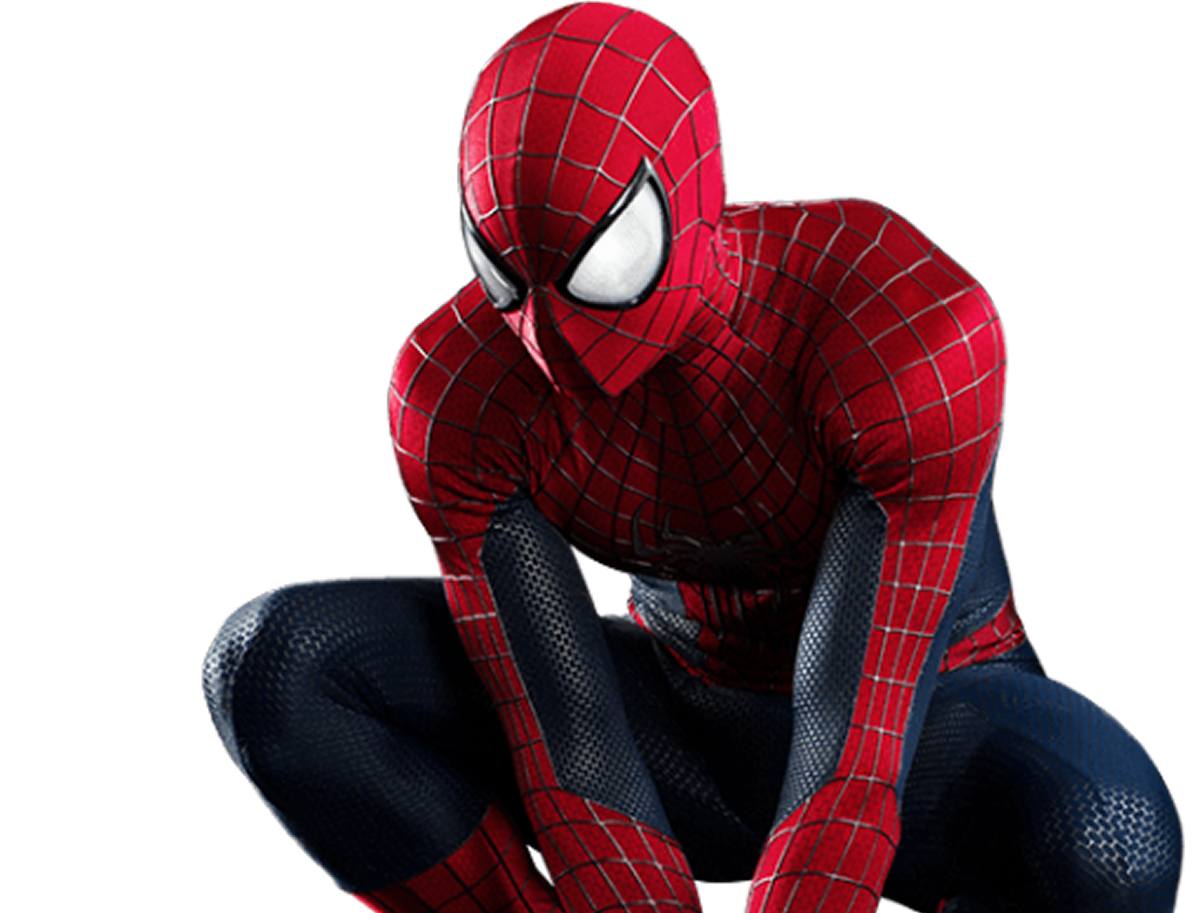
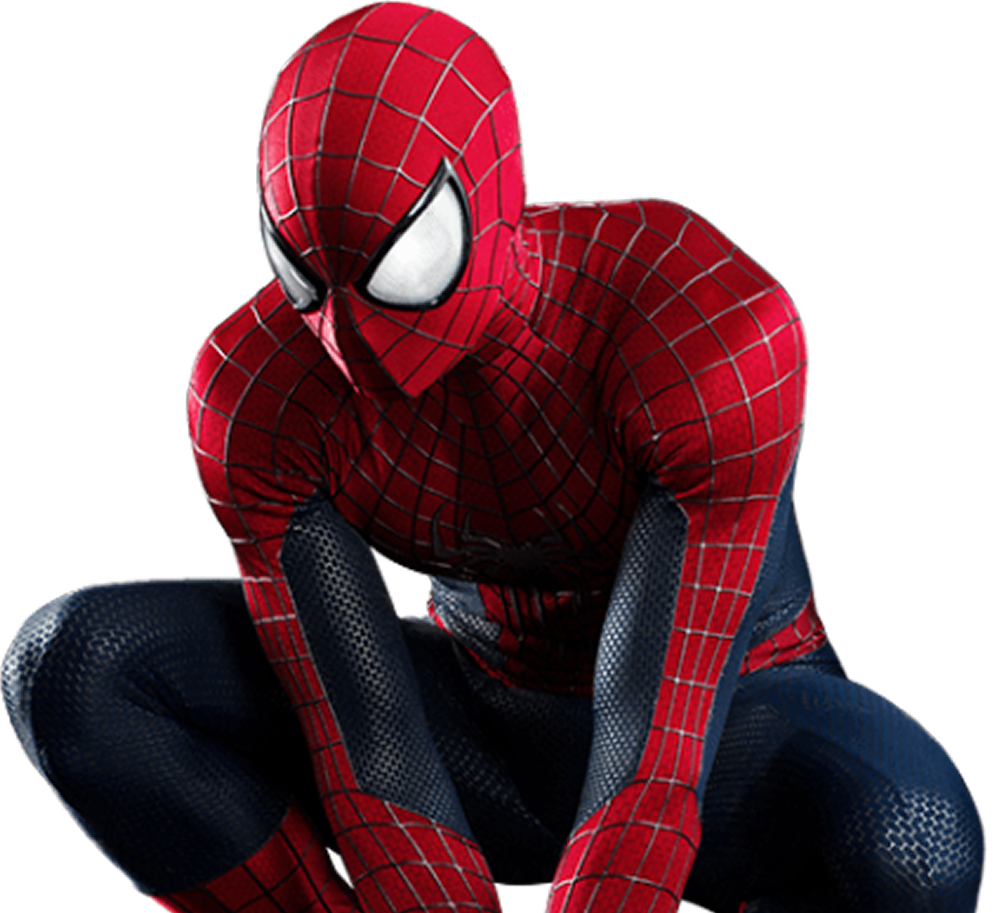
Ajuste final do site

diff --git a/css/styles.css b/css/styles.css
@@ -11,6 +11,10 @@
     padding: 0;
     box-sizing: border-box;
 }
+html {
+    overflow-x: hidden; /* <--- Adicione esta linha */
+    scroll-behavior: smooth; /* Se você quiser rolagem suave */
+}
 
 body {
     font-family: 'Outfit', sans-serif;
@@ -97,17 +101,9 @@ ul {
     
 }
 
-.hero {
-    height: 100vh;
-    display: flex;
-    align-items: flex-end;
-    
-}
-
 .spiderman-section {
     display: flex;
-    margin: 75px;
-    margin-top: 0;
+    margin-left: 115px;
 }
 
 .studio-logo {
@@ -120,8 +116,9 @@ ul {
 }
 
 .text-box  {
-   margin-top: 0;
+   margin-top: 116px;
    max-width: 885px;
+   
 }
 
 .text-box h1 {
@@ -130,7 +127,7 @@ ul {
     font-weight: 400;
     color: #ffffff;
    -webkit-text-stroke: 3px #E90909; 
-    font-size: 80px;
+    font-size: 100px;
     line-height: 78px;
     margin-bottom: 27px;
 }
@@ -139,7 +136,7 @@ ul {
     text-align: center;
     font-family: "Swanky and Moo Moo", sans-serif;
     font-weight: 400;
-    font-size: 70px;
+    font-size: 75px;
     line-height: 29px;
     color: #000000;
     -webkit-text-stroke: 2px #F2F2F2;
@@ -150,7 +147,7 @@ ul {
 .text-box  p {
     font-family: "Outfit", sans-serif;
     font-weight: 400;
-    font-size: 30px;
+    font-size: 35px;
     color: #FFFFFF;
     margin-top: 20px;
     margin-bottom: 30px;
@@ -162,6 +159,7 @@ ul {
     align-items: center;
     text-decoration: none;
     gap: 38px;
+    margin-bottom: 166px;
 }
 
 .btn.watch {
@@ -187,8 +185,7 @@ ul {
 
 
 .img-spider-man {
-    max-width: 960px; 
+    max-width: 920px; 
     height: auto;
-
 }
 

diff --git a/index.html b/index.html
@@ -10,6 +10,7 @@
     <title>SPIDER-MAN</title>
 </head>
 <body>
+<main class="hero">
     <header class="navbar">
         <section class="container">
             <div class="logo">
@@ -29,7 +30,7 @@
         </section>
 
     </header>
-    <main class="hero">
+    
         <section class="spiderman-section">
                 <div class="text-box">
                     <div class="studio-logo">
@@ -47,6 +48,5 @@
                 <img  class="img-spider-man" src="/assets/spider-man.png" alt="homem aranha"> 
         </section>       
     </main>
-
 </body>
 </html>
